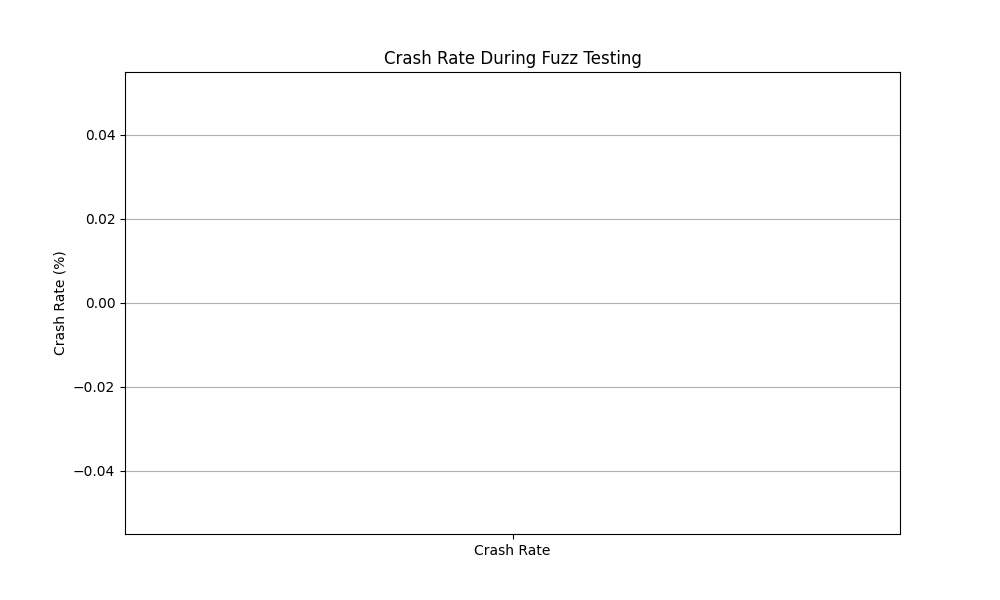
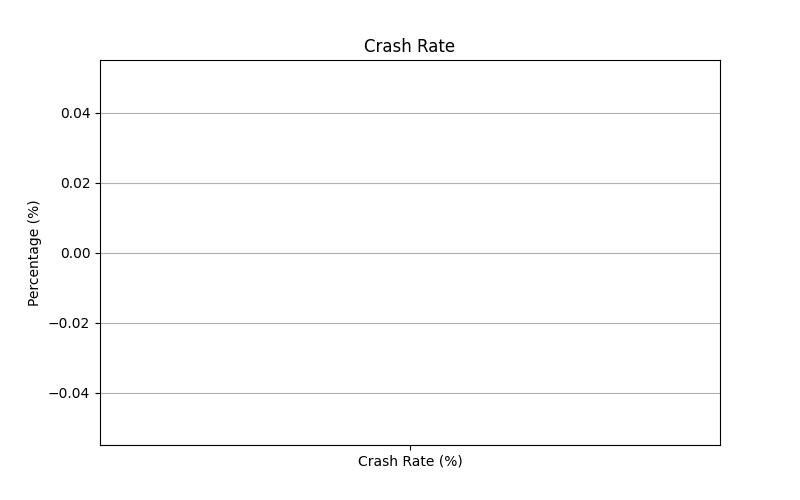
done

diff --git a/vm2/app/plot_metrics_atheris.py b/vm2/app/plot_metrics_atheris.py
@@ -1,24 +1,20 @@
 # plot_metrics_atheris.py
 
-import json
 import matplotlib.pyplot as plt
 import os
+import json
 
 
 class AtherisMetricsPlotter:
-    """A class for loading, processing, and plotting Atheris metrics."""
-
     def __init__(self, metrics_file, output_dir="plots"):
-        """Initialize the MetricsPlotter with a metrics file and output directory."""
         self.metrics_file = metrics_file
         self.output_dir = output_dir
         self.metrics = self._load_metrics()
         self._ensure_output_directory()
 
     def _load_metrics(self):
-        """Load metrics from the JSON file."""
         try:
-            with open(self.metrics_file, 'r') as f:
+            with open(self.metrics_file, "r") as f:
                 return json.load(f)
         except FileNotFoundError:
             raise FileNotFoundError(f"Metrics file '{self.metrics_file}' not found.")
@@ -26,58 +22,65 @@ class AtherisMetricsPlotter:
             raise ValueError(f"Error decoding JSON in metrics file: {e}")
 
     def _ensure_output_directory(self):
-        """Ensure the output directory for plots exists."""
         os.makedirs(self.output_dir, exist_ok=True)
 
-    def _bar_chart(self, labels, values, title, ylabel, filename, yticks=None):
-        """Create a bar chart and save it as a PNG file."""
-        plt.figure(figsize=(10, 6))
-        plt.bar(labels, values, color=["blue", "green"])
-        plt.ylabel(ylabel)
-        plt.title(title)
-        if yticks:
-            plt.yticks(yticks)
-        plt.grid(axis="y")
-        plt.savefig(os.path.join(self.output_dir, filename))
-        plt.close()
-
     def plot_crash_rate(self):
-        """Plot crash rate metrics in a separate file."""
         crash_rate = self.metrics.get("Crash Rate (%)", 0)
-        plt.figure(figsize=(10, 6))
-        plt.bar(["Crash Rate"], [crash_rate], color="red")
-        plt.ylabel("Crash Rate (%)")
-        plt.title("Crash Rate During Fuzz Testing")
+        plt.figure(figsize=(8, 5))
+        plt.bar(["Crash Rate (%)"], [crash_rate], color="red")
+        plt.ylabel("Percentage (%)")
+        plt.title("Crash Rate")
         plt.grid(axis="y")
         plt.savefig(os.path.join(self.output_dir, "crash_rate.png"))
         plt.close()
 
-    def plot_edge_case_and_execution(self):
-        """Plot edge case coverage and execution paths tested in the same chart."""
-        labels = ["Edge Case Coverage", "Execution Paths Tested"]
-        values = [
-            self.metrics.get("Edge Case Coverage", 0),
-            self.metrics.get("Execution Paths Tested", 0),
-        ]
-        max_value = max(values)
-        yticks = range(0, max_value + 2)  # Incremental y-axis ticks (0, 1, 2, etc.)
-        self._bar_chart(
-            labels=labels,
-            values=values,
-            title="Edge Case Coverage and Execution Paths Tested",
-            ylabel="Values",
-            filename="edge_case_and_execution.png",
-            yticks=yticks,
-        )
-        print(f"Plots saved in '{self.output_dir}/' directory.")
+    def plot_edge_case_coverage(self):
+        edge_case_count = self.metrics.get("Edge Case Coverage", 0)
+        max_iterations = self.metrics.get("Max Iterations", 1)
+        edge_case_percentage = (edge_case_count / max_iterations) * 100
 
+        plt.figure(figsize=(8, 5))
+        plt.bar(["Edge Cases", "Max Iterations", "Percentage"],
+                [edge_case_count, max_iterations, edge_case_percentage],
+                color=["blue", "orange", "green"])
+        plt.ylabel("Values")
+        plt.title("Edge Case Coverage")
+        plt.grid(axis="y")
+        plt.savefig(os.path.join(self.output_dir, "edge_case_coverage.png"))
+        plt.close()
 
-def main():
-    """Main function to execute the plotting."""
-    metrics_plotter = AtherisMetricsPlotter(metrics_file="metrics_atheris.json")
-    metrics_plotter.plot_crash_rate()
-    metrics_plotter.plot_edge_case_and_execution()
+    def plot_execution_paths(self):
+        execution_paths = self.metrics.get("Execution Paths Tested", 0)
+        plt.figure(figsize=(8, 5))
+        plt.bar(["Execution Paths"], [execution_paths], color="green")
+        plt.ylabel("Count")
+        plt.title("Execution Paths Tested")
+        plt.grid(axis="y")
+        plt.savefig(os.path.join(self.output_dir, "execution_paths.png"))
+        plt.close()
+
+    def plot_message_statistics(self):
+        total_messages = self.metrics.get("Total Messages Inserted", 0)
+        unique_content = self.metrics.get("Unique Content Variations", 0)
+
+        plt.figure(figsize=(8, 5))
+        plt.bar(["Total Messages", "Unique Content"],
+                [total_messages, unique_content],
+                color=["blue", "orange"])
+        plt.ylabel("Count")
+        plt.title("Message Statistics")
+        plt.grid(axis="y")
+        plt.savefig(os.path.join(self.output_dir, "message_statistics.png"))
+        plt.close()
+
+    def plot_all(self):
+        self.plot_crash_rate()
+        self.plot_edge_case_coverage()
+        self.plot_execution_paths()
+        self.plot_message_statistics()
+        print(f"All plots saved in the directory: {self.output_dir}")
 
 
 if __name__ == "__main__":
-    main()
+    plotter = AtherisMetricsPlotter(metrics_file="metrics_atheris.json")
+    plotter.plot_all()

diff --git a/vm2/app/test_atheris.py b/vm2/app/test_atheris.py
@@ -61,7 +61,7 @@ class MongoFuzzer:
                 # Generate metrics and exit
                 logger.info("Reached maximum iterations. Generating final metrics.")
                 self.generate_metrics()
-                sys.exit("Program terminated after reaching 300 iterations.")
+                sys.exit("Program terminated after reaching 5000 iterations.")
 
             # Decode and process fuzzing input
             fuzz_content = data.decode("utf-8", errors="ignore")

diff --git a/README.md b/README.md
@@ -198,7 +198,7 @@ kubectl get pods -w
 
 #### k. The pod should complete after a while. Debug with these two commands:
 ```
-kubectl describe po python-mongo-client
+kubectl describe pod python-mongo-client
 kubectl logs python-mongo-client
 ```
 
@@ -217,8 +217,8 @@ python3 test_atheris.py -max_len=1024
 
 #### n. Visualise data
 ```
-python plot_metrics_unit.py
-python plot_metrics_atheris.py
+python3 plot_metrics_unit.py
+python3 plot_metrics_atheris.py
 ```
 
 #### n. Exit the Pod

diff --git a/vm2/app/README.md b/vm2/app/README.md
@@ -116,11 +116,11 @@ python3 test_atheris.py -max_len=1024
    - Use the appropriate plotting script to generate visual metrics:
      - **Unit Tests:**
        ```
-       python plot_metrics_unit.py
+       python3 plot_metrics_unit.py
        ```
      - **Atheris Fuzz Testing:**
        ```
-       python plot_metrics_atheris.py
+       python3 plot_metrics_atheris.py
        ```
 
    - All generated plots will be saved in the `plots/` directory for further analysis.

diff --git a/vm2/README.md b/vm2/README.md
@@ -35,7 +35,7 @@ kubectl get pods -w
 ```
 12. The pod should complete after a while. Debug with these two commands:
 ```
-kubectl describe po python-mongo-client
+kubectl describe pod python-mongo-client
 kubectl logs python-mongo-client
 ```
 13. The test connection code provided in `test.py` log should show the following:
